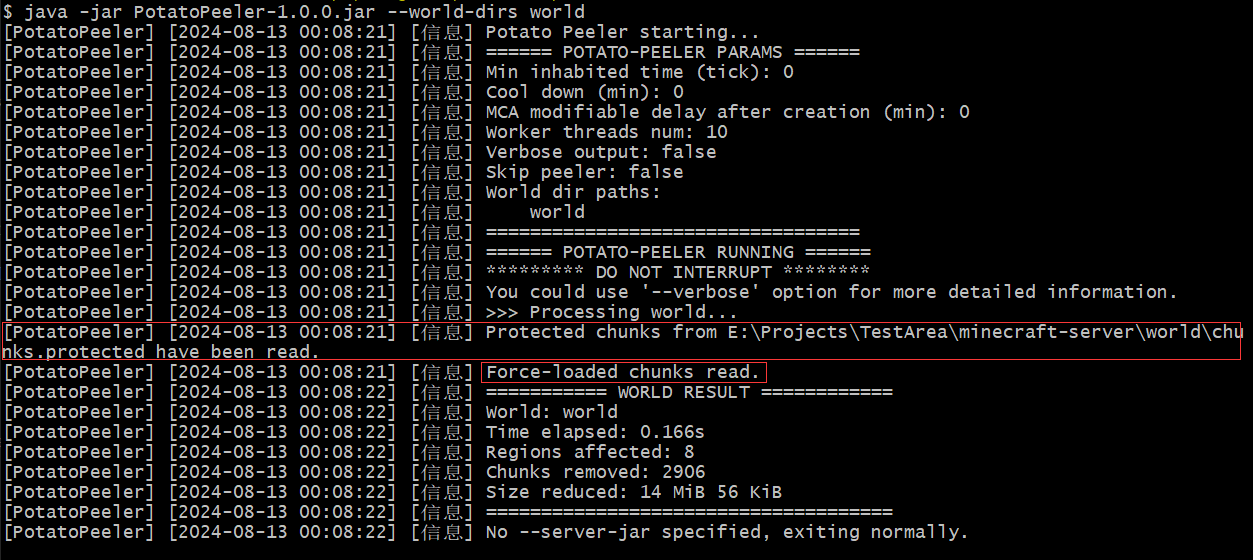
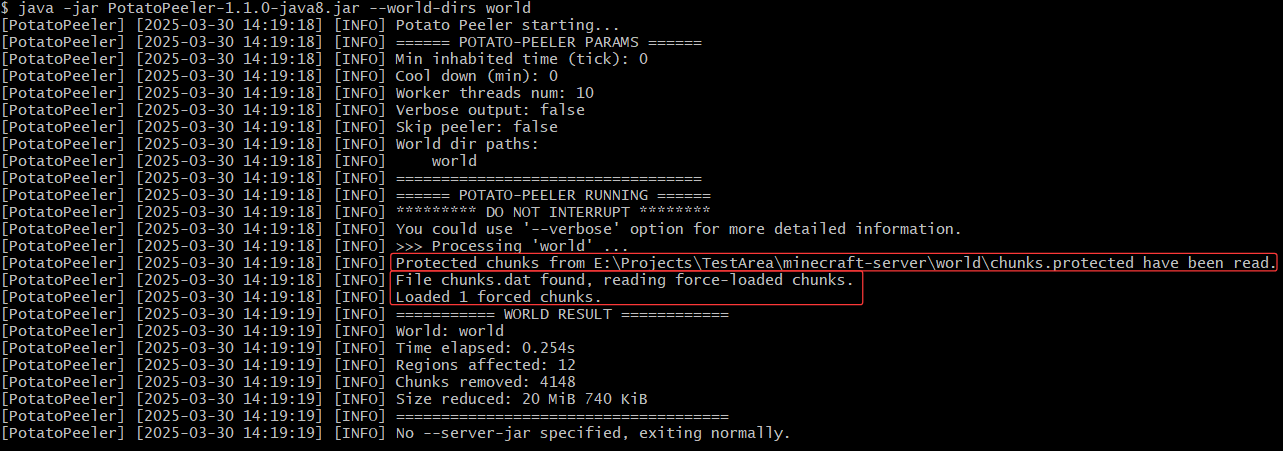
更新：README

diff --git a/README.md b/README.md
@@ -221,7 +221,8 @@ Protected chunks from <path of chunks.protected> have been read.
 If there are force-loaded chunks in this world, it will print:  
 
 ```
-Force-loaded chunks read.
+File chunks.dat found, reading force-loaded chunks.
+Loaded <num> forced chunks.
 ```
 
 ### 7.6. Importing Command Line Arguments from a File

diff --git a/README.zh_CN.md b/README.zh_CN.md
@@ -222,7 +222,8 @@ Protected chunks from <path of chunks.protected> have been read.
 如果这个世界中包含被强制加载的区块，将会打印：  
 
 ```
-Force-loaded chunks read.
+File chunks.dat found, reading force-loaded chunks.
+Loaded <num> forced chunks.
 ```
 
 ### 7.6. 从文件中导入命令行参数
